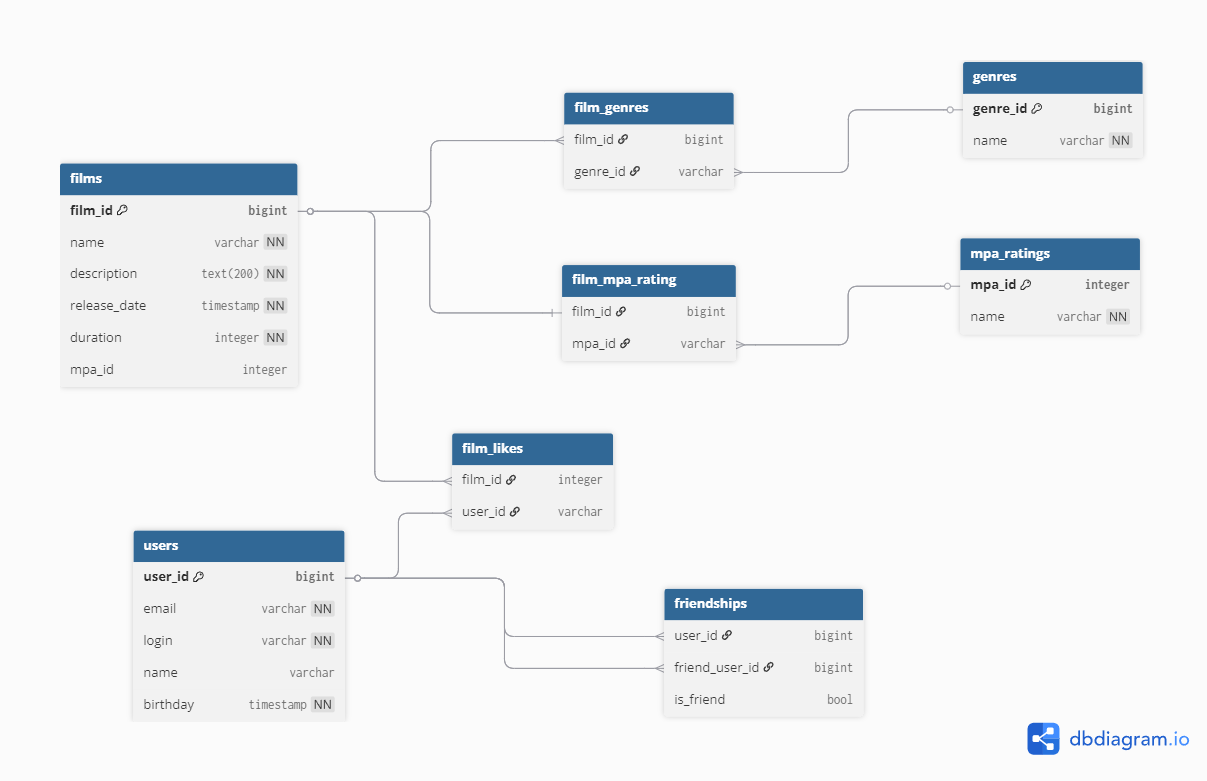
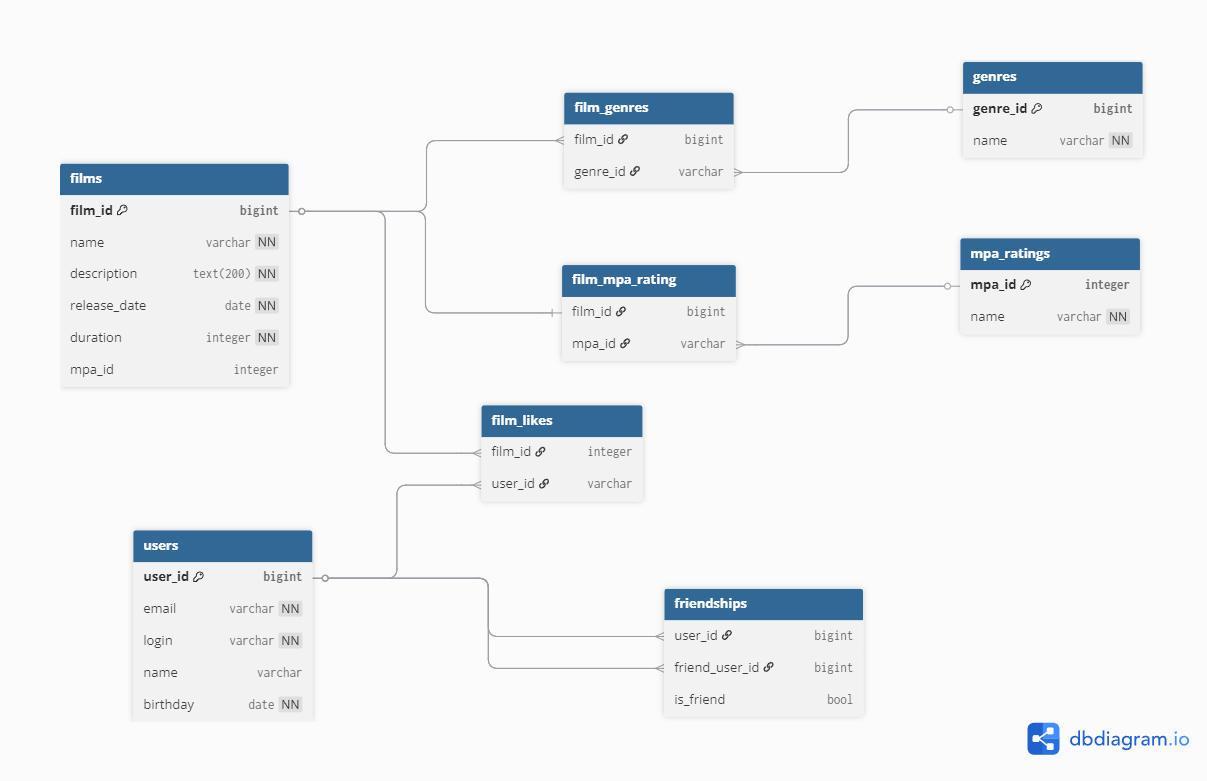
Изменение README.md

diff --git a/README.md b/README.md
@@ -1,5 +1,93 @@
 # java-filmorate
-Template repository for Filmorate project.
+Фильмов много — и с каждым годом становится всё больше. Чем их больше, тем больше разных оценок. Чем больше оценок, тем сложнее сделать выбор. Однако не время сдаваться! Мы написали бэкенд для сервиса, который работает с фильмами и оценками пользователей, а также возвращает топ-5 фильмов, рекомендованных к просмотру.
 ## Схема базы данных
 ![Схема базы данных](src/main/resources/images/data-base-diagram.png)
 [Ссылка на схему базы данных](https://dbdiagram.io/d/68daa3f4d2b621e4226dcc3b)
+### Описание базы данных
+#### films
+Содержит данные о фильмах:
+* film_id - id фильма (тип bigint).
+* name - название фильма (тип varchar).
+* description - описание фильма (тип text с ограничением 200 символов). 
+* release_date - дата выхода фильма (тип date). 
+* duration - длительность фильма (тип integer). 
+* rating_id - id рейтинга фильма (тип integer).
+#### film_genres
+Содержит id жанров для каждого фильма:
+* film_id - id фильма (тип bigint).
+* genre_id - id жанра (тип bigint).
+#### genres
+Содержит данные о жанрах:
+* genre_id - id жанра (тип integer).
+* name - название жанра (тип varchar).
+#### film_mpa_rating
+Содержит id MPA-рейтинга для каждого фильма:
+* film_id - id фильма (тип bigint).
+* mpa_id - id MPA-рейтинга (тип integer).
+#### mpa_ratings
+Содержит данные рейтингов по стандарту MPA:
+* mpa_id - id MPA-рейтинга (тип integer).
+* name - название MPA-рейтинга (тип varchar).
+#### film_likes
+Содержит id пользователей, которым понравился фильм:
+* film_id - id фильма (тип bigint).
+* user_id - id пользователя, которому понравился фильм (тип bigint).
+#### users
+Содержит данные о пользователях:
+* user_id - id пользователя (тип bigint).
+* email - электронная почта пользователя (тип varchar).
+* login - логин пользователя (тип varchar).
+* name - имя пользователя (тип varchar).
+* birthday - день рождения пользователя (тип date).
+#### friendships
+Содержит данные о дружбе пользователей:
+* user_id - id пользователя (тип bigint).
+* friend_user_id - id друга (тип bigint).
+* is_friend - подтверждение дружбы (тип boolean).
+### Примеры запросов
+* Получить данные о всех фильмах:
+```
+SELECT *
+FROM films;
+```
+* Получить данные о фильме по его id:
+```
+SELECT * 
+FROM films 
+WHERE films.id = 10;
+```
+* Получить данные о 5 фильмах с наибольшим количеством лайков:
+```
+SELECT f.name,
+       COUNT(fl.user_id) AS likes
+FROM films AS f
+LEFT JOIN film_likes AS fl ON f.film_id = fl.film_id
+GROUP BY f.film_id
+ORDER BY likes DESC
+LIMIT 5;
+```
+* Добавление фильма:
+```
+INSERT INTO films (name, duration, description, release_date, mpa_id)
+VALUES (`Название`, 10, `Описание`, `2025-05-05`, `PG`);
+```
+* Получить данные о пользователе по его id:
+```
+SELECT *
+FROM users
+WHERE users.user_id = 10;
+```
+* Получить друзей пользователя с id 1:
+```
+SELECT u.*
+FROM users AS u
+JOIN friendships f ON u.user_id = f.friend_id
+WHERE f.user_id = 1 AND f.is_friend = 1;
+```
+* Получить общих друзей двух пользователей с id 1 и 2:
+```
+SELECT u.*
+FROM users AS u
+JOIN friendships f1 ON u.user_id = f1.friend_id AND f1.user_id = 1 AND f1.is_friend = 1
+JOIN friendships f2 ON u.user_id = f2.friend_id AND f2.user_id = 2 AND f2.is_friend = 1;
+```
